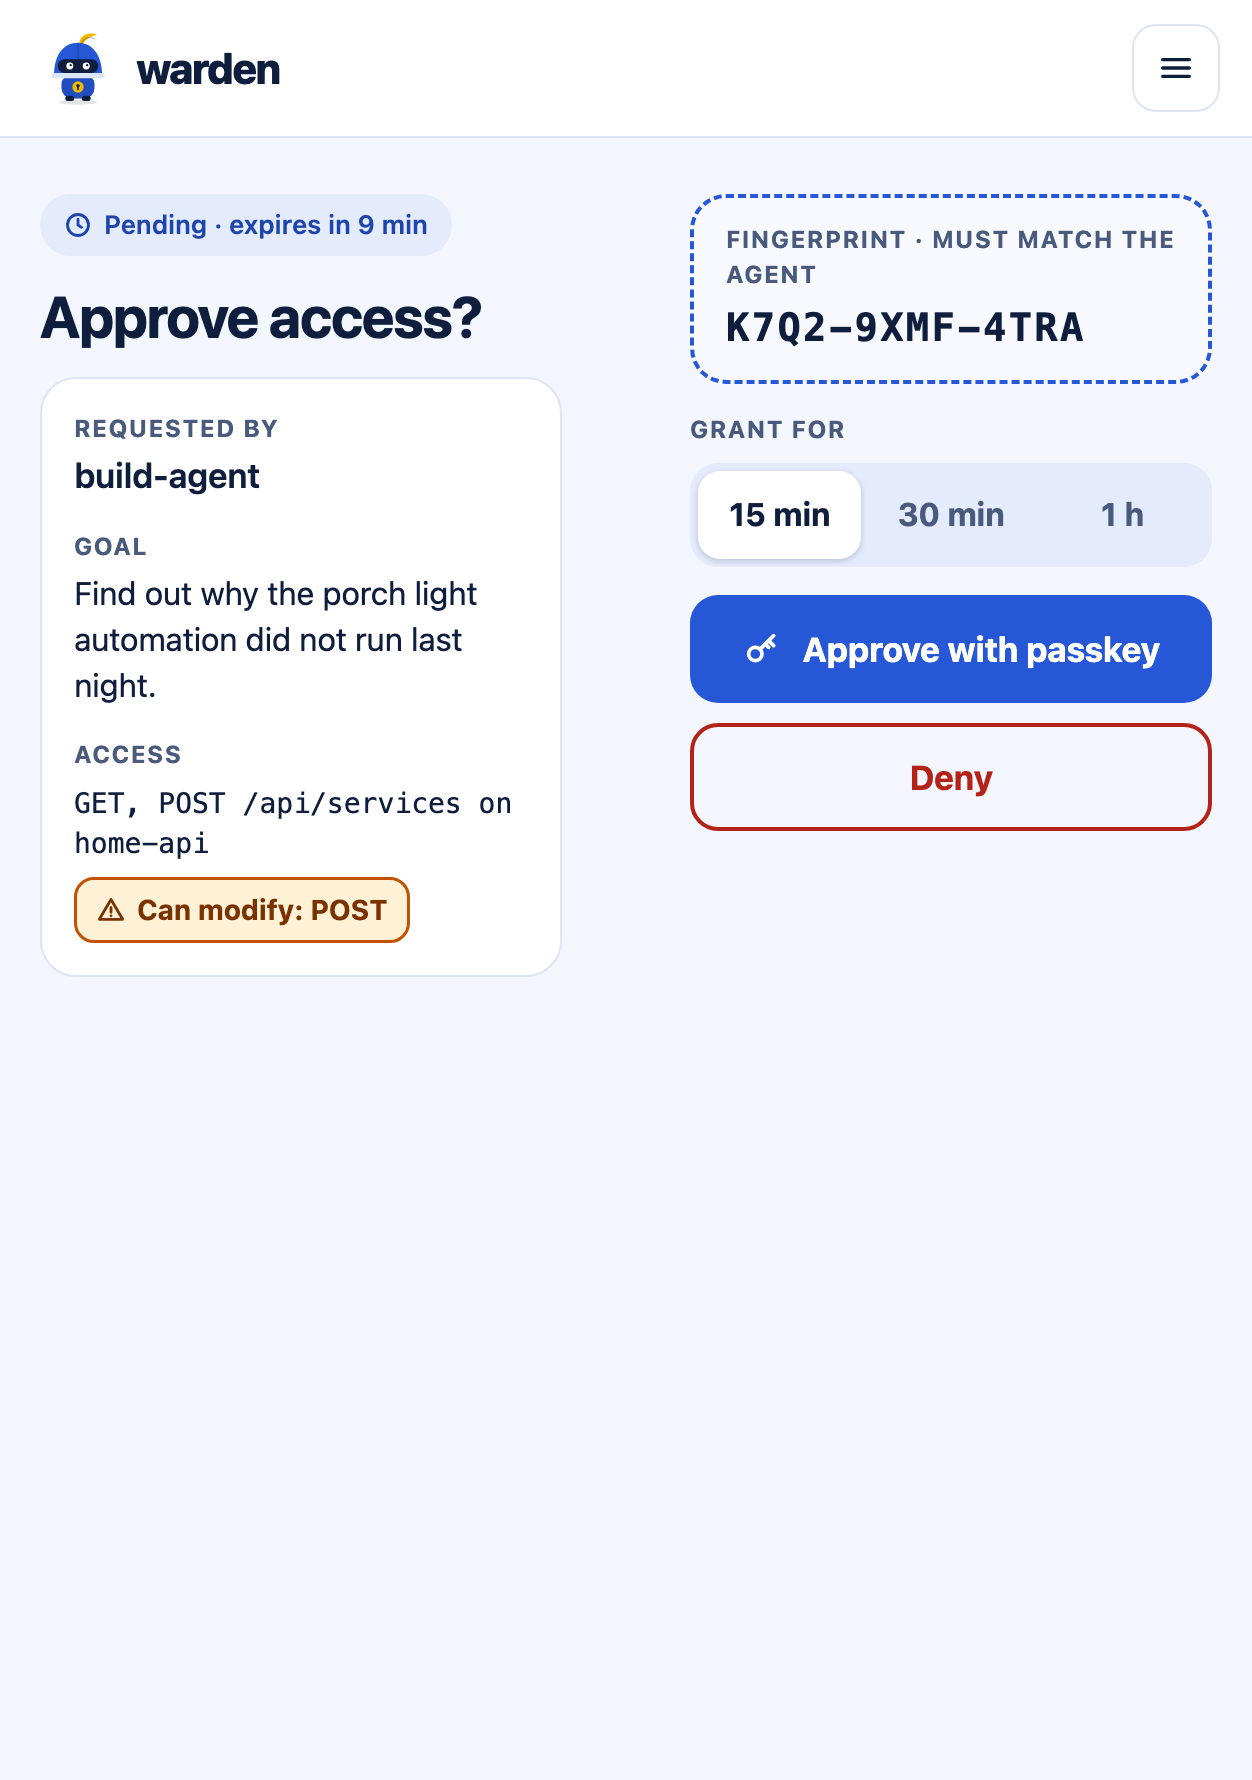
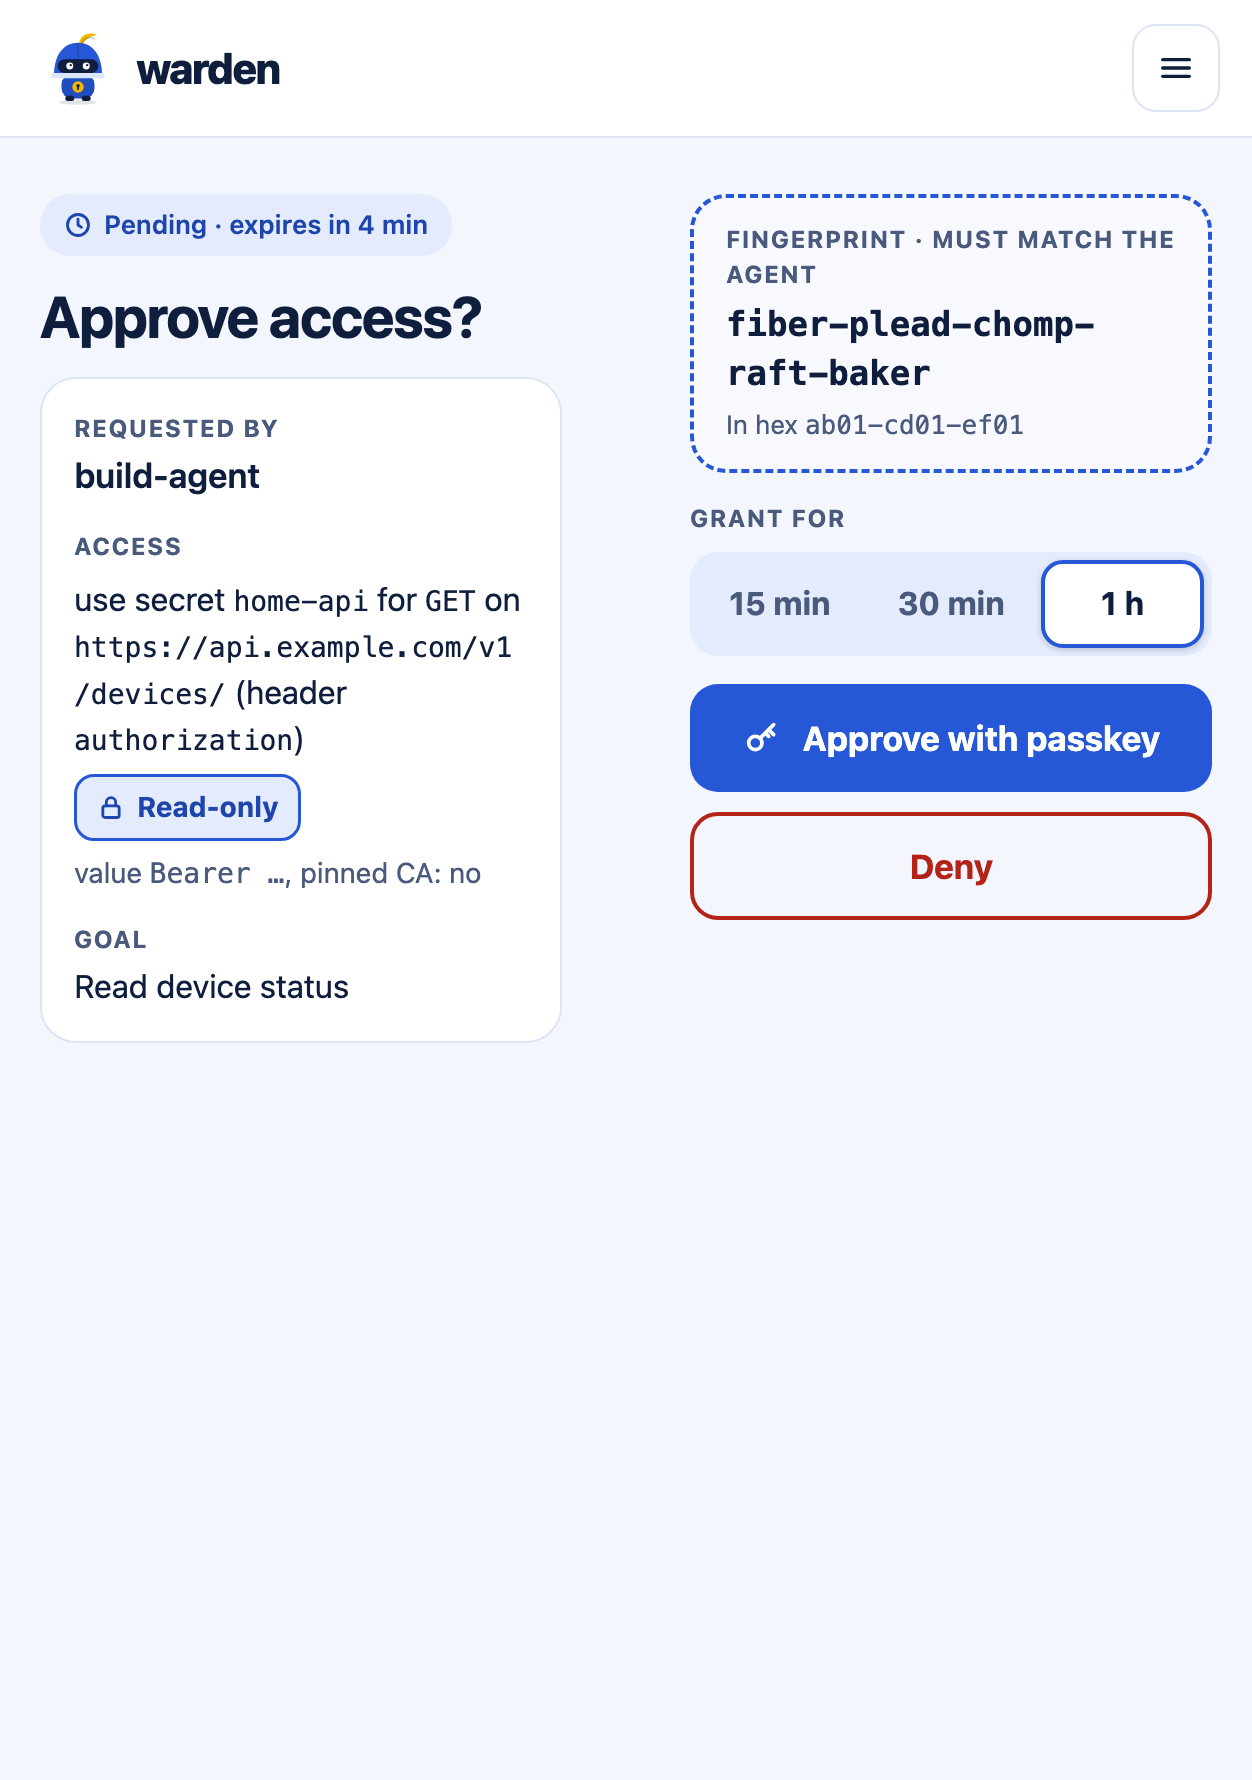
Show the word fingerprints in the mockups and on the landing page

diff --git a/docs/design/reference/approve.html b/docs/design/reference/approve.html
@@ -36,8 +36,9 @@ font-size:14px;font-weight:700;border:1.5px solid}
 .modify{background:var(--warn-bg);color:var(--warn-ink);border-color:var(--warn-line)}
 .fp{border-radius:18px;padding:12px 16px;background:var(--fp-bg);border:2px dashed var(--primary);
 display:flex;flex-direction:column;gap:4px}
-.fp span:last-child{font-family:ui-monospace,SFMono-Regular,Menlo,monospace;font-size:clamp(17px,4.6vw,23px);font-weight:700}
-@media (min-width:600px){.fp span:last-child{font-size:clamp(17px,2.2vw,23px)}}
+.fp span:nth-child(2){font-family:ui-monospace,SFMono-Regular,Menlo,monospace;font-size:clamp(17px,4.6vw,23px);font-weight:700}
+.fp small{color:var(--muted);font-family:ui-monospace,SFMono-Regular,Menlo,monospace;font-size:13px}
+@media (min-width:600px){.fp span:nth-child(2){font-size:clamp(17px,2.2vw,23px)}}
 fieldset{border:0;margin:0;padding:0;min-width:0}
 fieldset legend{padding:0;margin-bottom:8px}
 .seg{display:grid;grid-template-columns:repeat(3,minmax(0,1fr));gap:4px;padding:4px;border-radius:14px;background:var(--soft)}
@@ -68,7 +69,7 @@ column-gap:64px;align-items:start;padding-top:28px}}
 @media (min-width:1000px){.btns{grid-template-columns:1fr 1fr}}
 /* Short screens (folded, landscape): tighter, so Approve and Deny stay on screen. */
 @media (max-height:700px){main{padding-top:10px;gap:10px}h1{font-size:23px}.col{gap:10px}.card{padding:12px;gap:10px}
-.fp span:last-child{font-size:19px}.btn{height:48px}.done{padding-top:12px}.halo{width:150px;height:150px}.halo .mascot{width:112px;height:112px}}
+.fp span:nth-child(2){font-size:19px}.btn{height:48px}.done{padding-top:12px}.halo{width:150px;height:150px}.halo .mascot{width:112px;height:112px}}
 @media (max-height:700px) and (min-width:600px){main.split{padding-top:12px}}
 /* Folded and short: the decision panel and the fingerprint both fit without scrolling. */
 @media (max-height:700px) and (max-width:599px){header{padding-top:6px;padding-bottom:6px}header .mascot{width:32px;height:32px}
@@ -116,7 +117,7 @@ background:var(--surface);border-top:1px solid var(--line)}}
 </section>
 </div>
 <div class="col">
-<section class="fp"><span class="label">Fingerprint · must match the agent</span><span>fiber-plead-chomp-raft-baker</span></section>
+<section class="fp"><span class="label">Fingerprint · must match the agent</span><span>fiber-plead-chomp-raft-baker</span><small>In hex ab01-cd01-ef01</small></section>
 <div class="actions">
 <fieldset><legend class="label">Grant for</legend><div class="seg">
 <input type="radio" name="w" id="w1" checked><label for="w1">15 min</label>

diff --git a/docs/design/reference/grants.html b/docs/design/reference/grants.html
@@ -109,7 +109,7 @@ background:var(--surface);border-top:1px solid var(--line)}}
 <section class="card grant">
 <div class="field" style="gap:6px"><span class="who"><bdi>build-agent</bdi></span>
 <code>GET /api/ on home-api</code><span class="badge readonly"><svg width="14" height="14" viewBox="0 0 24 24" fill="none" stroke="currentColor" stroke-width="2.4" stroke-linecap="round" stroke-linejoin="round" aria-hidden="true"><rect x="5" y="11" width="14" height="10" rx="2"/><path d="M8 11V8a4 4 0 0 1 8 0v3"/></svg> Read-only</span>
-<div class="meta"><span>Fingerprint <code>fiber-plead-chomp-raft-baker</code></span><span>Ends 22:45 (in 38 min)</span></div></div>
+<div class="meta"><span>Fingerprint <code>fiber-plead-chomp-raft-baker</code> <code>ab01-cd01-ef01</code></span><span>Ends 22:45 (in 38 min)</span></div></div>
 <button class="revoke" type="button">Revoke</button>
 </section>
 <section class="card grant">
